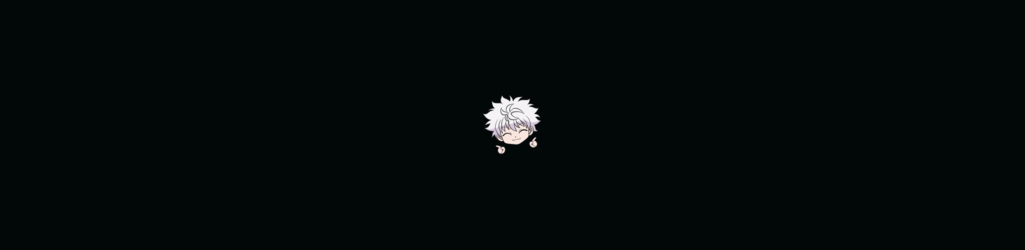
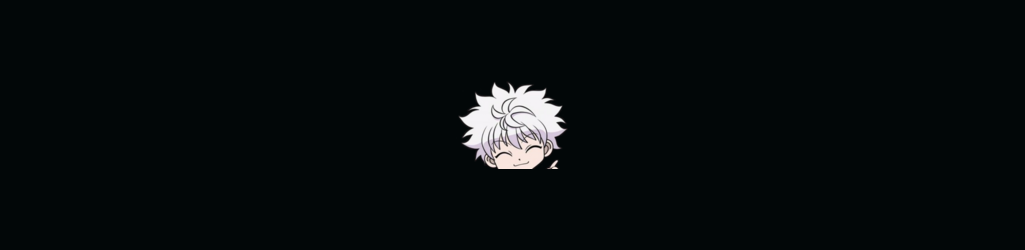
Tune lanyard motion and layout

Changed region(s): [[0.4371, 0.336, 0.562, 0.672]]

diff --git a/src/components/Lanyard.tsx b/src/components/Lanyard.tsx
@@ -15,9 +15,9 @@ import {
 import { MeshLineGeometry, MeshLineMaterial } from 'meshline'
 import * as THREE from 'three'
 import cardGLB from '../assets/lanyard/card.glb'
+import killuaIcon from '../assets/lanyard/killua-icon.png'
 import lanyardTextureSrc from '../assets/lanyard/lanyard.png'
 import killuaCard from '../assets/images/k.jpg'
-import killuaTitle from '../assets/images/kiluatitle.png'
 import './Lanyard.css'
 
 extend({ MeshLineGeometry, MeshLineMaterial })
@@ -96,6 +96,7 @@ function Band({ maxSpeed = 50, minSpeed = 0, isMobile = false }) {
   const j3 = useRef()
   const card = useRef()
   const decorations = useRef([])
+  const introStart = useRef(null)
   const vec = new THREE.Vector3()
   const ang = new THREE.Vector3()
   const rot = new THREE.Vector3()
@@ -104,17 +105,18 @@ function Band({ maxSpeed = 50, minSpeed = 0, isMobile = false }) {
   const cardAnchorOffset = new THREE.Vector3()
   const cardRotation = new THREE.Quaternion()
   const segmentProps = { type: 'dynamic', canSleep: true, colliders: false, angularDamping: 4, linearDamping: 4 }
-  const cardScale = isMobile ? 2.2 : 2.5
+  const cardScale = isMobile ? 2.08 : 2.36
   const colliderScale = cardScale / 1.05
-  const anchorPosition = isMobile ? [0.02, 4.08, 0] : [0.02, 4.28, 0]
-  const cardStartX = isMobile ? 2.08 : 1.95
-  const jointStep = cardStartX / 3
+  const anchorPosition = isMobile ? [0.02, 3.58, 0] : [0.02, 4.72, 0]
+  const ropeSegmentLength = isMobile ? 0.9 : 0.72
+  const cardStartX = ropeSegmentLength * 3 + (isMobile ? 0.12 : 0.1)
+  const jointStep = ropeSegmentLength
   const cardHookY = -1.05 + cardScale * 1.18
   const decorationPoints = isMobile ? [0.42, 0.64, 0.86] : [0.38, 0.6, 0.82]
   const { nodes, materials } = useGLTF(cardGLB)
   const lanyardTexture = useTexture(lanyardTextureSrc)
   const killuaTexture = useTexture(killuaCard)
-  const killuaTitleTexture = useTexture(killuaTitle)
+  const killuaIconTexture = useTexture(killuaIcon)
   const [curve] = useState(
     () =>
       new THREE.CatmullRomCurve3([new THREE.Vector3(), new THREE.Vector3(), new THREE.Vector3(), new THREE.Vector3()])
@@ -122,9 +124,9 @@ function Band({ maxSpeed = 50, minSpeed = 0, isMobile = false }) {
   const [dragged, drag] = useState(false)
   const [hovered, hover] = useState(false)
 
-  useRopeJoint(fixed, j1, [[0, 0, 0], [0, 0, 0], 1])
-  useRopeJoint(j1, j2, [[0, 0, 0], [0, 0, 0], 1])
-  useRopeJoint(j2, j3, [[0, 0, 0], [0, 0, 0], 1])
+  useRopeJoint(fixed, j1, [[0, 0, 0], [0, 0, 0], ropeSegmentLength])
+  useRopeJoint(j1, j2, [[0, 0, 0], [0, 0, 0], ropeSegmentLength])
+  useRopeJoint(j2, j3, [[0, 0, 0], [0, 0, 0], ropeSegmentLength])
   useSphericalJoint(j3, card, [
     [0, 0, 0],
     [0, cardHookY, 0]
@@ -142,6 +144,24 @@ function Band({ maxSpeed = 50, minSpeed = 0, isMobile = false }) {
   }, [hovered, dragged])
 
   useFrame((state, delta) => {
+    if (fixed.current) {
+      if (introStart.current === null) introStart.current = state.clock.elapsedTime
+      const elapsed = state.clock.elapsedTime - introStart.current
+      const decay = Math.exp(-elapsed * 1.55)
+      const introActive = elapsed < 2.8 && !dragged
+
+      if (introActive) {
+        fixed.current.setNextKinematicTranslation({
+          x: Math.sin(elapsed * 10.5) * decay * (isMobile ? 0.14 : 0.2),
+          y: Math.abs(Math.sin(elapsed * 12)) * decay * (isMobile ? 0.025 : 0.045),
+          z: 0
+        })
+        ;[card, j1, j2, j3].forEach((ref) => ref.current?.wakeUp())
+      } else {
+        fixed.current.setNextKinematicTranslation({ x: 0, y: 0, z: 0 })
+      }
+    }
+
     if (dragged) {
       vec.set(state.pointer.x, state.pointer.y, 0.5).unproject(state.camera)
       dir.copy(vec).sub(state.camera.position).normalize()
@@ -192,12 +212,12 @@ function Band({ maxSpeed = 50, minSpeed = 0, isMobile = false }) {
   killuaTexture.colorSpace = THREE.SRGBColorSpace
   killuaTexture.offset.set(0.08, 0.035)
   killuaTexture.repeat.set(0.84, 0.9)
-  killuaTitleTexture.colorSpace = THREE.SRGBColorSpace
+  killuaIconTexture.colorSpace = THREE.SRGBColorSpace
 
   return (
     <>
       <group position={anchorPosition}>
-        <RigidBody ref={fixed} {...segmentProps} type="fixed" />
+        <RigidBody ref={fixed} {...segmentProps} type="kinematicPosition" />
         <RigidBody position={[jointStep, 0, 0]} ref={j1} {...segmentProps}>
           <BallCollider args={[0.1]} />
         </RigidBody>
@@ -259,11 +279,11 @@ function Band({ maxSpeed = 50, minSpeed = 0, isMobile = false }) {
           ref={(element) => {
             decorations.current[index] = element
           }}
-          scale={isMobile ? [0.34, 0.2, 1] : [0.38, 0.23, 1]}
+          scale={isMobile ? [0.24, 0.2, 1] : [0.28, 0.23, 1]}
           renderOrder={20}
         >
           <spriteMaterial
-            map={killuaTitleTexture}
+            map={killuaIconTexture}
             transparent
             alphaTest={0.04}
             depthTest={false}
@@ -292,6 +312,6 @@ function Band({ maxSpeed = 50, minSpeed = 0, isMobile = false }) {
 }
 
 useGLTF.preload(cardGLB)
+useTexture.preload(killuaIcon)
 useTexture.preload(lanyardTextureSrc)
 useTexture.preload(killuaCard)
-useTexture.preload(killuaTitle)

diff --git a/src/components/About.css b/src/components/About.css
@@ -38,6 +38,7 @@
   cursor: grab;
   overflow: visible;
   background: transparent;
+  transform: translateY(clamp(-76px, -5vw, -48px));
 }
 
 .about-lanyard-stage:active {
@@ -360,6 +361,7 @@
     width: min(128vw, 700px);
     height: 620px;
     margin-left: 0;
+    transform: translateY(24px);
   }
   
   .about-content {
@@ -435,6 +437,7 @@
     width: 132vw;
     height: 570px;
     margin-left: 0;
+    transform: translateY(34px);
   }
   
   .about-content {
